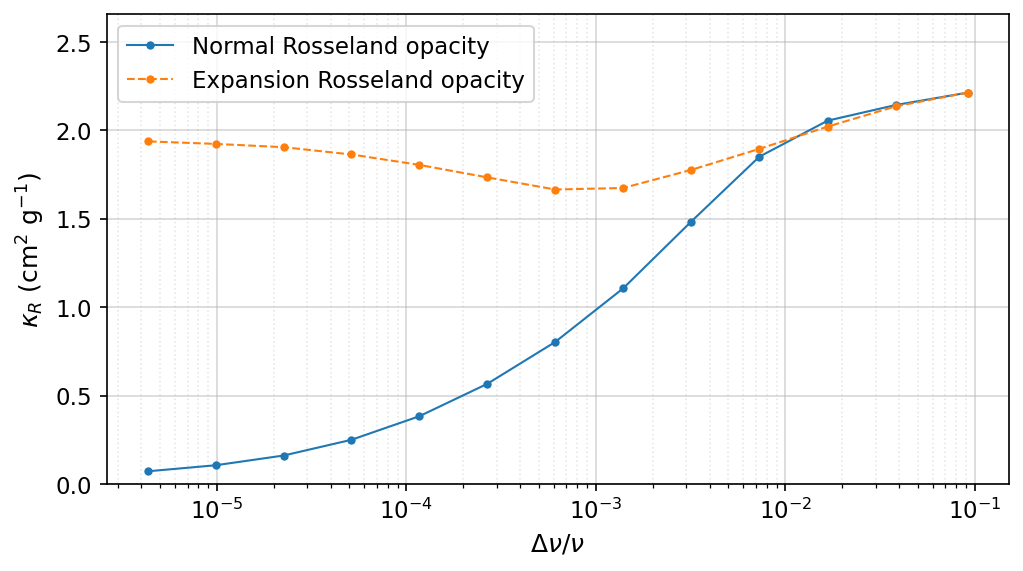
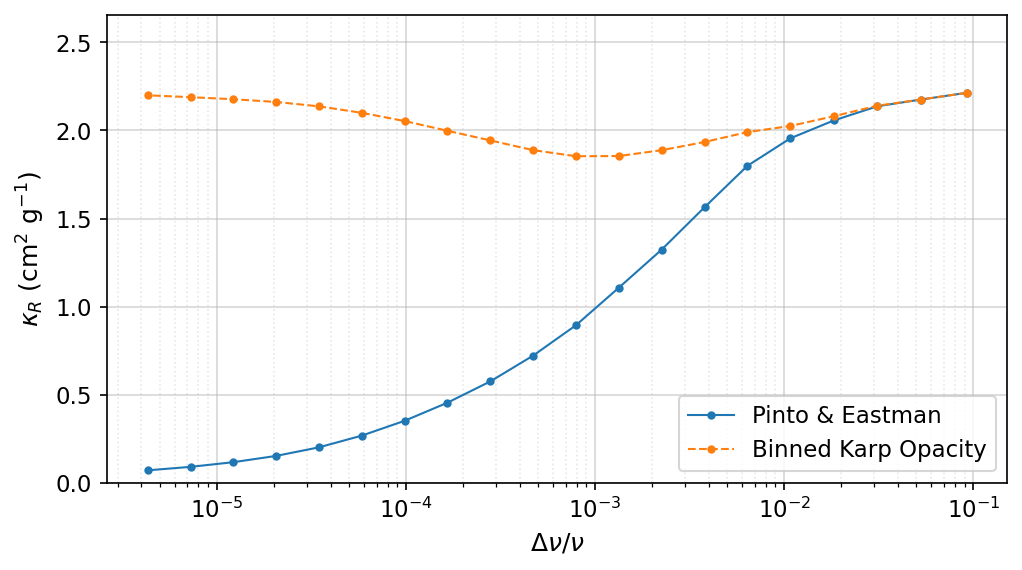
before udi answer

diff --git a/OpacityCalculation_v2_structure.tex b/OpacityCalculation_v2_structure.tex
@@ -42,51 +42,71 @@ opacity \sep expansion opacity \sep Rosseland mean \sep kilonova \sep Type Ia su
 \section{Introduction}
 \label{SecIntro}
 
-\section{Expansion Opacity and Rosseland Averaging}
+\section{Rosseland Expansion Opacity under Relevant Ejecta Conditions}
 \label{SecExpansion}
 
-\subsection{Expansion Opacity}
-1. How kappa is constructed in Karp's work.
-2. Check if I want to have slightly different implemntion due to practical reasons. 
-(Maybe) Show its accurate enogh to use Pinto and Eastman formalism even for rosseland as long as we use low amount of bins.
-
-\subsection{Numerical Construction and Frequency Convergence}
+\subsection{Expansion Opacity and Rosseland Averaging}
+1. How the opacities are constructed in Karp's and Pinto and Eastman formalisms.
 
 \begin{figure}[h]
     \centering
-    \includegraphics[width=\columnwidth]{figs/kappa_smoothed_vs_raw.png}\\[0.5em]
     \includegraphics[width=\columnwidth]{figs/kappa_smoothed_vs_raw_error.png}
     \caption{Illustrates unsaturated, saturated, and effective expansion opacity
     for a single thermodynamic point (Fe example).}
     \label{fig:BB_line_example}
 \end{figure}
 
-\begin{figure}[h]
+Technically, Karp at el didnt discuesed the frequency bining in their work.
+We use a slighlt change where we take for a singel bin with tau>1 the Pinto and Eastman opacity. 
+
+(In the appendix we show) Its accurate enogh to use Pinto and Eastman formalism for rosseland as long as we use low amount of bins.
+
+The convergence figure is in Appendix~\ref{AppInterpolation}.
+ 
+
+\subsection{Rosseland opacity at Type Ia and Kilonova conditions}
+The Rosseland depends on T, rho, t and compotions.
+
+Discuess the compositon:
+
+For type1A:  $^{56}$Ni--$^{56}$Co--$^{56}$Fe and the Si/S/Ar/Ca outer-layer mixture.
+
+For kilonova: In nature all materials exist. In this work, we used an eight-element mixture  
+with fraction based on solar $r$-process abundance pattern. 
+
+Details on abundance mapping and cumulative-mass figure are in Appendix~\ref{AppComposition}. 
+
+State the atomic DB we used (HRF, kurcuz, HULLAC)
+
+Since its the most important factor, we varied $X_{\rm lan}$ and neglected actinide.
+
+Rosseland-opacity trends are shown in Figure~\ref{fig:kappa_composition_slices}. 
+
+Present the strong density dependence and for above 1 \% lanthanide mass fraction the opacity drop around $1$~eV.
+Discuss a possible light-curve consequence of the opacity increase as the ejecta cool below the minimum; 
+more about this will be discussed in Section~\ref{SecEarlyFeature}.
+
+\begin{figure*}[t]
     \centering
-    \includegraphics[width=\columnwidth]{figs/convergence_Fe_rho1.00e-13_t20.0days.png}\\[0.5em]
-    \includegraphics[width=\columnwidth]{figs/convergence_Er_rho1.00e-12_t1.0days.png}
-    \caption{Convergence of $\kappa_R^{\rm exp}$ vs frequency resolution for Fe and Er.
-    Shows that the gray expansion mean is numerically stable for practical binning.}
-    \label{fig:convergence}
-\end{figure}
+    \includegraphics[width=\textwidth,height=0.36\textheight,keepaspectratio]{figs/kappa_composition_slices.png}
+    \caption{Mixture $\kappa_R^{\rm exp}(T)$ and $\kappa_R^{\rm exp}(\rho)$ slices for different kilonova and Type Ia compositions.}
+    \label{fig:kappa_composition_slices}
+\end{figure*}
 
-\subsection{Atomic Data and Compositions}
-\label{SecTables}
 
-\begin{figure}[h]
-    \centering
-    \includegraphics[width=\columnwidth]{figs/kilonova_composition.png}
-    \caption{Eight-element kilonova mix from solar $r$-process residuals.}
-    \label{fig:kilonova_composition}
-\end{figure}
-
-\subsection{Transport Implementation and Ejecta Models}
-\label{SecTransportSetup}
-
-\section{Accuracy and Efficiency of the Gray Treatment}
+\clearpage
+\section{Radiation Transport with Gray Opacity Tables}
 \label{SecRadiationSimulations}
 
-\subsection{Type Ia and Kilonova Bolometric Light Curves}
+
+\subsection{Single-Group and Multigroup Simulations: Setup and Light-Curve Comparison}
+\label{SecTransportSetup}
+General explanstion how the urilight works, describe the density profile at time t0,
+the decay chain and energy deposition. How temperature is determined in multigroup by emissivity and absorption
+and in one group by the planck mean opacity of the Pinto and Eastman formalism and absorption to scatter ratio.
+Photons travel a distance according to the rosseland mean opacity of the Karp's formalism.
+
+Compare the single-group and multigroup luminosity curves in Figure~\ref{fig:comparison}.
 
 \begin{figure*}[t]
     \centering
@@ -96,7 +116,24 @@ opacity \sep expansion opacity \sep Rosseland mean \sep kilonova \sep Type Ia su
     \label{fig:comparison}
 \end{figure*}
 
-\subsection{Characteristic Radiation Temperatures}
+\subsection{Escaping Radiation Temperatures}
+\label{SecTemperatureStructure}
+Show the temprature and kappa maps for kilonova (switched from SN1A) fig~\ref{fig:profile_colormap}.
+
+Define the diffusion and photosphere surfaces and explain how their velocities are calculated from the kappa(t, v) maps. 
+
+Use these definitions throughout the following sections.
+
+Extracted emitted radiation temperature profile is shown in Figure~\ref{fig:trad_vs_phot}.
+
+
+\begin{figure*}[t]
+    \centering
+    \includegraphics[width=\textwidth]{figs/kilonova_lan10_profile_colormap.png}
+    \caption{SN~Ia $T_{\rm plasma}$ and $\kappa_R^{\rm exp}$ maps with diffusion /
+    photosphere surfaces overlaid.}
+    \label{fig:profile_colormap}
+\end{figure*}
 
 \begin{figure}[t]
     \centering
@@ -106,12 +143,39 @@ opacity \sep expansion opacity \sep Rosseland mean \sep kilonova \sep Type Ia su
     \label{fig:trad_vs_phot}
 \end{figure}
 
-\subsection{Computational Cost}
 
+
+
+\subsection{Computational Cost}
+1g calculations can easily be 100 times faster than multigroup calculations. They do demend to calculate the opacity tables
+in advance which might take a significant time.
+
+Maybe this subsection should be emitted and the results will be merged with the first subsection. 
+
+
+\clearpage
 \section{The Effective Opacity of Kilonova Ejecta}
 \label{SecTypicalOpacity}
+\subsection{Time Evolution and Composition Dependence of the Effective Opacity}
+Use the diffusion surface defined in Section~\ref{SecTemperatureStructure} to calculate the representative 
+opacity of the overlying ejecta for both kilonova and Type 1A. (maybe its worth to calculate also the photosphere opacity)
 
-\subsection{Diffusion Depth and Column-Averaged Opacity}
+Describe the conditions on the diffusion surface as shown in Figure~\ref{fig:kilonova_diffusion_surface}. 
+(We can see on the density and T in Figure~\ref{fig:kilonova_diffusion_surface} the prints of the points where
+$v_{\rm phot} = 0.1c$ and the density profile become constant.
+Its visable by the density power law change and by the temperature drop.)
+
+1. Define the column-density-weighted opacity above the diffusion surface using Eq.~\ref{eq:kappa_avg}.
+
+2. Show the evolution of this average opacity in Figure~\ref{fig:diffusion_opacity_evolution}.
+
+3. There is an almost constant opacity for kilonovae (for every lanthanide mass fractions) in the times where $0.2<T_{\rm diff}<1$~eV.
+We average over the cooling interval $0.2<T_{\rm diff}<1$~eV with weights in $\ln t$.
+
+4. The plateau mean opacity is $\kappa(X_{\rm lan})$ and $\kappa$ of type1A. 
+Show the $\kappa(X_{\rm lan})$ is rouboust for different density profiles in figure~\ref{fig:kappa_xlan}.
+
+
 \begin{equation}
     \label{eq:kappa_avg}
     \kappa_{\rm avg}(t)
@@ -123,110 +187,148 @@ opacity \sep expansion opacity \sep Rosseland mean \sep kilonova \sep Type Ia su
     \frac{\tau(v_{\rm diff})}{\Sigma(v_{\rm diff})}.
 \end{equation}
 
-\subsection{Thermodynamic Evolution and the Emergence of Lanthanide Dependence}
 
 \begin{figure*}[t]
     \centering
     \includegraphics[width=\textwidth,height=0.72\textheight,keepaspectratio]{figs/kilonova_diffusion_surface.png}
-    \caption{Diffusion-surface $v$, $T$, $\rho$, and
-    $\kappa_{\rm avg}(t)$ for six $X_{\rm lan}$; Type~Ia local $\kappa$ panel included.}
+    \caption{Diffusion-surface velocity, temperature, and density versus time
+    for six kilonova lanthanide mass fractions $X_{\rm lan}$.}
     \label{fig:kilonova_diffusion_surface}
 \end{figure*}
 
 \begin{figure*}[t]
     \centering
-    \includegraphics[width=\textwidth,height=0.36\textheight,keepaspectratio]{figs/kappa_composition_slices.png}
-    \caption{Mixture $\kappa_R^{\rm exp}(T)$ and $\kappa_R^{\rm exp}(\rho)$ slices.}
-    \label{fig:kappa_composition_slices}
+    \includegraphics[width=\textwidth]{figs/kilonova_diffusion_surface_opacity.png}
+    \caption{Opacity versus time: local Rosseland opacity at the Type~Ia
+    diffusion surface (left) and column-density-weighted opacity above the
+    kilonova diffusion surface (right). Black markers delimit the sampled
+    cooling interval $0.2<T_{\rm diff}<1$~eV, truncated where the diffusion
+    surface becomes undefined.}
+    \label{fig:diffusion_opacity_evolution}
 \end{figure*}
-
-\subsection{Representative Opacities Across Compositions and Ejecta Profiles}
 
 \begin{figure*}[!t]
     \centering
     \includegraphics[width=\textwidth,height=0.36\textheight,keepaspectratio]{figs/kappa_vs_xlan.png}
-    \caption{$\kappa_{\rm avg}$ vs $X_{\rm lan}$ for five ejecta profiles + fit.}
+    \caption{$\kappa_{\rm avg}$ vs $X_{\rm lan}$ for five ejecta profiles and a global fit,
+    averaging in $\ln t$ over $0.2<T_{\rm diff}<1$~eV where the diffusion surface is defined.
+    Error bars show the weighted temporal standard deviation.}
     \label{fig:kappa_xlan}
 \end{figure*}
 
-\subsection{A Composition-Dependent Opacity Prescription and Its Light-Curve Implications}
 \begin{equation}
     \label{eq:kappa_xlan}
     \boxed{
     \kappa_{\rm avg}(X_{\rm lan})
     =
-    0.34 + 99\,X_{\rm lan}^{0.72}\ {\rm cm^{2}\,g^{-1}}.
+    0.197 + 93.82\,X_{\rm lan}^{0.691}\ {\rm cm^{2}\,g^{-1}}.
     }
 \end{equation}
 
+
+\subsection{A Possible Early-Time Kilonova Signature of the Opacity Increase}
+\label{SecEarlyFeature}
+We can see the luminosity decline between 0.05 and 0.4 days in the high-lanthanide compositions in Figure~\ref{fig:comparison}.
+This is correlated with the opacity increase when T cools below 1eV.
+
+Its reasonable to assume the real observed density profile obey a power law and
+that as we shown for T<1eV the opacity is almost constant.
+
+(I would like to consult this part with you.)
+Then we can show the analytical model for the luminosity given a constatnt kappa and density power law.
+Then we can think of a way to extract the change in the opacity and show how we can relate this to the lanthnide fraction.
+
+To ensure the opacity drop is not a feature of the specific material chosen or the specific DB used (but a general feature), in
+Figure~\ref{fig:all_lanthanides_opacity} we show the opacity for all lanthanides in the HRF DB and 3 materials from HULLAC DB.
+
+Figure~\ref{fig:all_lanthanides_opacity} shows a general trend across the
+lanthanides toward decreasing Rosseland opacity as the temperature increases
+from approximately $1$ to $1.5$~eV, although individual elements show exceptions.
+
+This decrease is especially clear in the black curve, which represents a mixture
+of all lanthanides with equal atomic number fractions, rather than an arithmetic
+average of their individual opacities. We note that the decrease in the opacity appears
+mainly for the Rosseland mean and not for the Planck mean.
+
+The HRF--HULLAC comparison for Ho, Er, and Tm in panel (c) partially
+reproduces this behavior across datasets; its robustness to the choice of
+atomic data therefore remains uncertain.
+
+\begin{figure*}[t]
+    \centering
+    \includegraphics[width=\textwidth]{figs/lanthanide_opacity_main.png}
+    \caption{Temperature dependence of (a) Rosseland and (b) total Planck mean
+    opacities for individual lanthanides in the HRF database. Black curves show
+    a mixture of all lanthanides with equal atomic number fractions.
+    (c) Rosseland opacities for Ho, Er, and Tm from HRF and HULLAC.}
+    \label{fig:all_lanthanides_opacity}
+\end{figure*}
+
+\clearpage
 \section{Discussion and Conclusions}
 \label{SecSummary}
 
 \appendix
 
-\section{Frequency-Bin Interpolation and Limiting Cases}
+\section{Sensitivity to Frequency-Bin Resolution}
 \label{AppInterpolation}
 
-\begin{equation}
-    \kappa_{\rm bb}^{\rm sat}(\nu)
-    = \sum_l \frac{\nu_l}{\rho c t}\,\delta(\nu-\nu_l)\,(1-e^{-\tau_l}),
-\end{equation}
-\begin{equation}
-    \kappa_{\rm bb}^{\rm unsat}(\nu)
-    = \sum_l \frac{\nu_l}{\rho c t}\,\delta(\nu-\nu_l)\,\tau_l .
-\end{equation}
+\begin{figure}[h]
+    \centering
+    \includegraphics[width=\columnwidth]{figs/convergence_Fe_rho1.00e-12_t3.0days.png}\\[0.5em]
+    \includegraphics[width=\columnwidth]{figs/convergence_Er_rho1.00e-12_t1.0days.png}
+    \caption{Convergence of $\kappa_R^{\rm exp}$ vs frequency resolution for Fe and Er.
+    It Shows that the rosseland of Pinto and Eastman for low frequency resultion is accurate up to 20\%.}
+    \label{fig:convergence}
+\end{figure}
 
-\begin{equation}
-    \label{eq:kappa_eff}
-    \kappa_{\rm exp}(\nu_i)
-    = \frac{\sum_l (1-e^{-\tau_l})}{\rho\,c t\,\ln(\nu_{i+1}/\nu_i)}
-      + \kappa_{\rm T} + \kappa_{\rm ff}(\nu_i).
-\end{equation}
+Tell Pinto and Eastman formalism give to low opacity for infinite frequency resolution.
 
-\section{Opacity Maps and Comparison with Planck Means}
+For low frequency resolution its not accurate but close to the "real results" based
+on the more accurate karp's formalism. This prove that for large bins with tau>1 the lines are apporximatly randomly distributed.
+
+\clearpage
+\section{Construction of the Kilonova Composition}
+\label{AppComposition}
+Describe the solar $r$-process residuals, conversion from number abundance
+to mass, restriction to $90<A\leq215$, and mapping of the eight mass-number
+windows onto Zr, Ru, Xe, Nd, Eu, Er, Re, and Pb.
+
+Explain where I got the data from,
+
+the normalization and the rescaling of the lanthanide and
+non-lanthanide components at fixed relative proportions within each group.
+
+Since I dont have lanthnide here maybe to give some approximate number for how much should be.
+
+
+\begin{figure}[t]
+    \centering
+    \includegraphics[width=\columnwidth]{figs/kilonova_composition.png}
+    \caption{Cumulative mass of the solar $r$-process abundance pattern over
+    $90<A\leq215$, with the eight representative elements and their mass fractions.}
+    \label{fig:kilonova_composition}
+\end{figure}
+
+\section{Kilonova Opacity Maps}
 \label{AppOpacityMaps}
-
-\begin{figure*}[t]
-    \centering
-    \includegraphics[width=0.48\textwidth]{figs/ni_rosseland_t1d.png}\hspace{0.02\textwidth}%
-    \includegraphics[width=0.48\textwidth]{figs/ni_t1d_ratio.png}
-    \caption{SN~Ia core: $\kappa_R^{\rm exp}$ and $\kappa_P/\kappa_R^{\rm exp}$ at $t=1$~d.}
-    \label{fig:rosseland_planck_ni}
-\end{figure*}
-
-\begin{figure*}[t]
-    \centering
-    \includegraphics[width=0.48\textwidth]{figs/sn1a_outer_rosseland_t1d.png}\hspace{0.02\textwidth}%
-    \includegraphics[width=0.48\textwidth]{figs/sn1a_outer_ratio_t1d.png}
-    \caption{SN~Ia outer layer: same quantities at $t=1$~d.}
-    \label{fig:rosseland_planck_sn1a_outer}
-\end{figure*}
-
-\begin{figure*}[t]
-    \centering
-    \includegraphics[width=0.48\textwidth]{figs/kilonova_rosseland_t1d.png}\hspace{0.02\textwidth}%
-    \includegraphics[width=0.48\textwidth]{figs/kilonova_ratio_t1d.png}
-    \caption{Kilonova mix ($X_{\rm lan}=0.121$): same quantities at $t=1$~d.}
-    \label{fig:rosseland_planck_kilonova}
-\end{figure*}
-
-\begin{figure*}[t]
-    \centering
-    \includegraphics[width=\textwidth]{figs/profile_colormap_dreff_compare.png}
-    \caption{SN~Ia $T_{\rm plasma}$ and $\kappa_R^{\rm exp}$ maps with diffusion /
-    photosphere surfaces overlaid.}
-    \label{fig:profile_colormap}
-\end{figure*}
-
-\section{Individual-Lanthanide Opacities and Ionization Features}
 \label{AppLanthanides}
 
-\begin{figure*}[t]
+\begin{figure}[t]
     \centering
-    \includegraphics[width=\textwidth]{figs/all_lanthanides_opacity.pdf}
-    \caption{All-lanthanide $\kappa_R$ and $\kappa_P$ vs $T$; documents
-    the $\sim1.2$~eV feature as database-wide for high-opacity lanthanides.}
-    \label{fig:all_lanthanides_opacity}
-\end{figure*}
+    \includegraphics[width=\columnwidth]{figs/kilonova_rosseland_t1d.png}
+    \caption{Rosseland expansion opacity as a function of temperature and density
+    for the kilonova mixture ($X_{\rm lan}=0.121$) at $t=1$~d.}
+    \label{fig:rosseland_planck_kilonova}
+\end{figure}
+
+\begin{figure}[t]
+    \centering
+    \includegraphics[width=\columnwidth]{figs/kilonova_ratio_t1d.png}
+    \caption{Planck-to-Rosseland mean opacity ratio as a function of temperature
+    and density for the kilonova mixture ($X_{\rm lan}=0.121$) at $t=1$~d.}
+    \label{fig:planck_rosseland_ratio_kilonova}
+\end{figure}
+
 
 \end{document}
